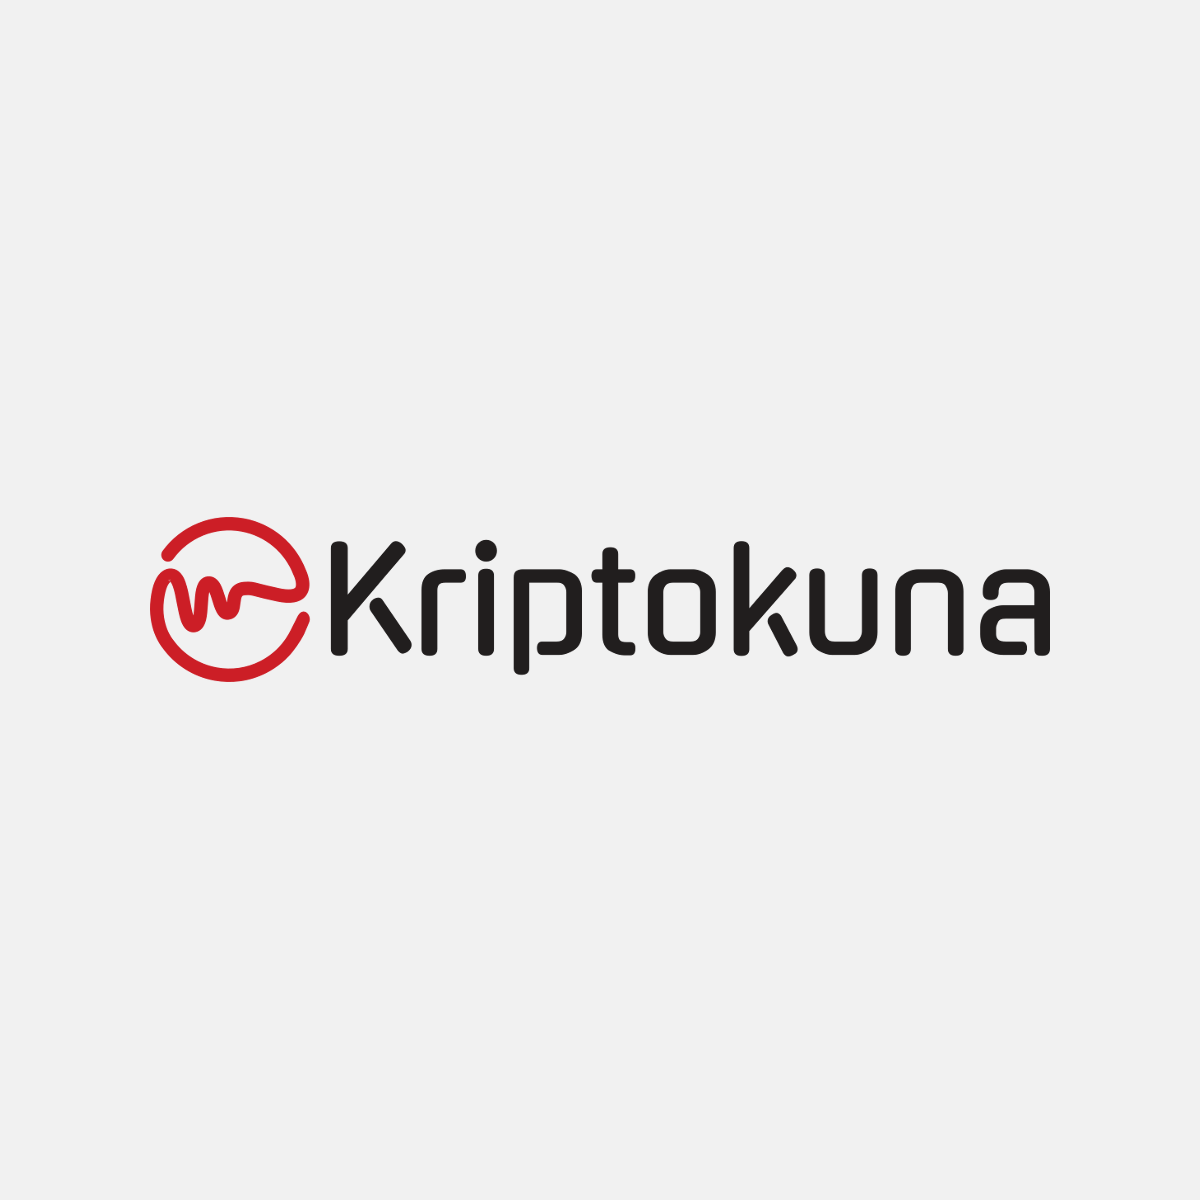
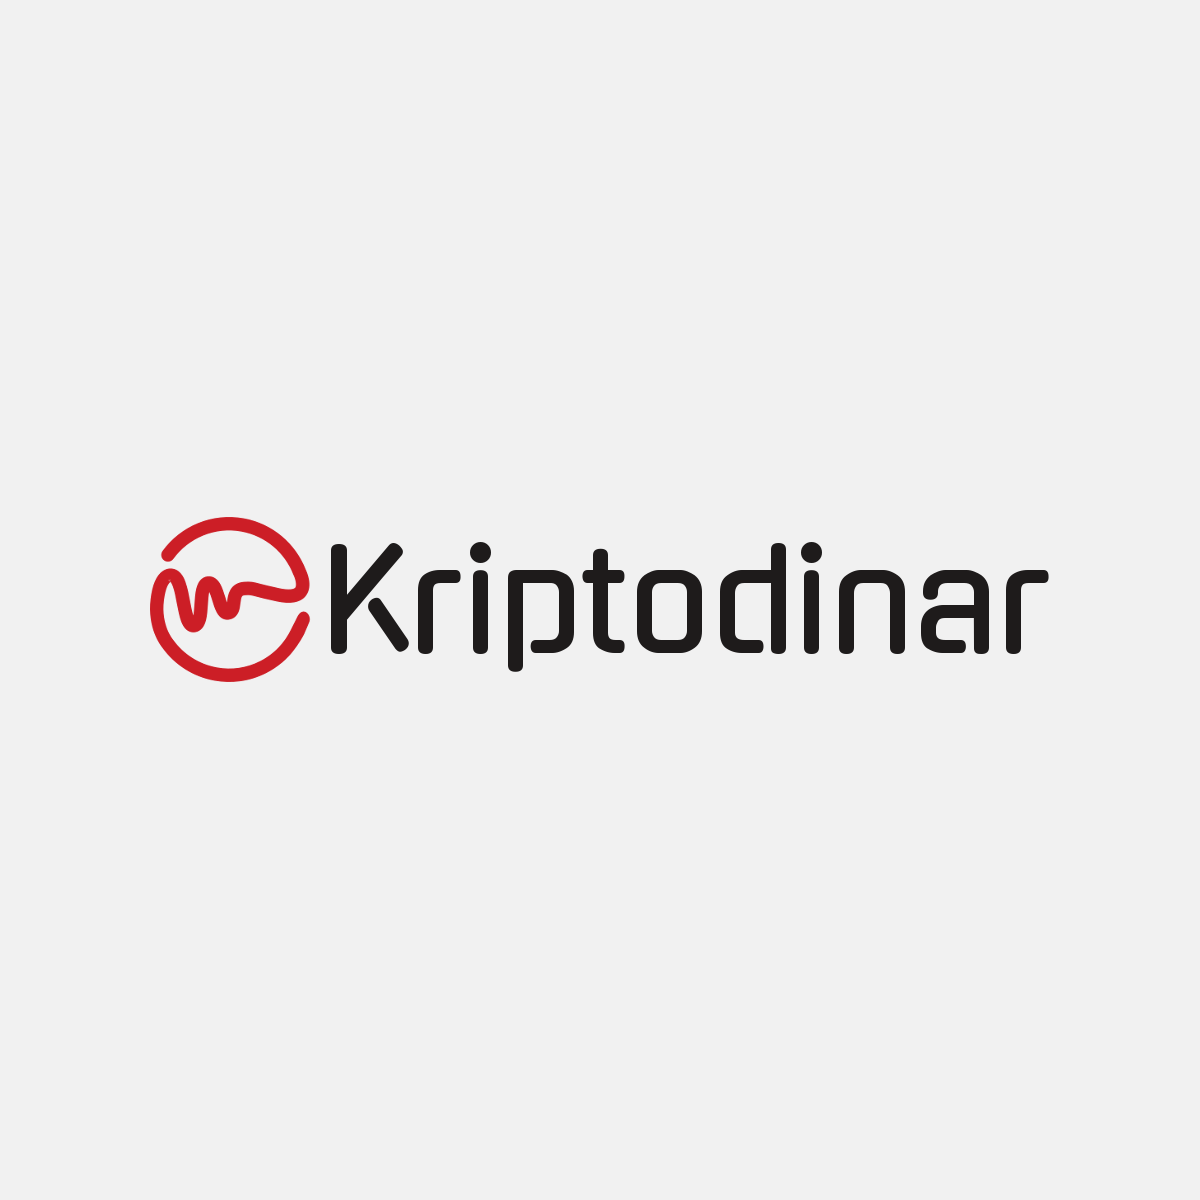
finished basic kriptodinar website

Changed region(s): [[0.3083, 0.4317, 0.8942, 0.555]]

diff --git a/templates/layout.html b/templates/layout.html
@@ -39,11 +39,11 @@
         <script src="https://oss.maxcdn.com/respond/1.4.2/respond.min.js"></script>
     <![endif]-->
 
-    <meta property="og:url"                content="https://www.kriptokuna.com{{ .URI }}" />
+    <meta property="og:url"                content="https://www.kriptodinar.com{{ .URI }}" />
     <meta property="og:type"               content="article" />
-    <meta property="og:title"              content="{{ .Title }}Kriptokuna - Odblokirajmo Blokirane!" />
-    <meta property="og:description"        content="{{ .Title }}Kriptokuna je stable coin (stabilna kripto valuta) i standardizirani i transparentni Waves token koji služi za plaćanje usluga prijevoza i odblokiravanje Blokiranih." />
-    <meta property="og:image"              content="https://www.kriptokuna.com/img/fb.png?v=1.0.1" />
+    <meta property="og:title"              content="{{ .Title }}Kriptodinar - Podignimo Siromašne!" />
+    <meta property="og:description"        content="{{ .Title }}Kriptodinar za bolje sutra! Kriptodinar je stabilna kriptovaluta kojoj je namjena poticanje direktne demokratije i transparentnosti u javno-političkom životu." />
+    <meta property="og:image"              content="https://www.kriptodinar.com/img/fb.png?v=1.0.1" />
 
     <script type="text/javascript">
 

diff --git a/macaron.go b/macaron.go
@@ -13,7 +13,7 @@ import (
 )
 
 const (
-	PROJECT_NAME = "Kriptokuna"
+	PROJECT_NAME = "Kriptodinar"
 )
 
 func initMacaron() *macaron.Macaron {
